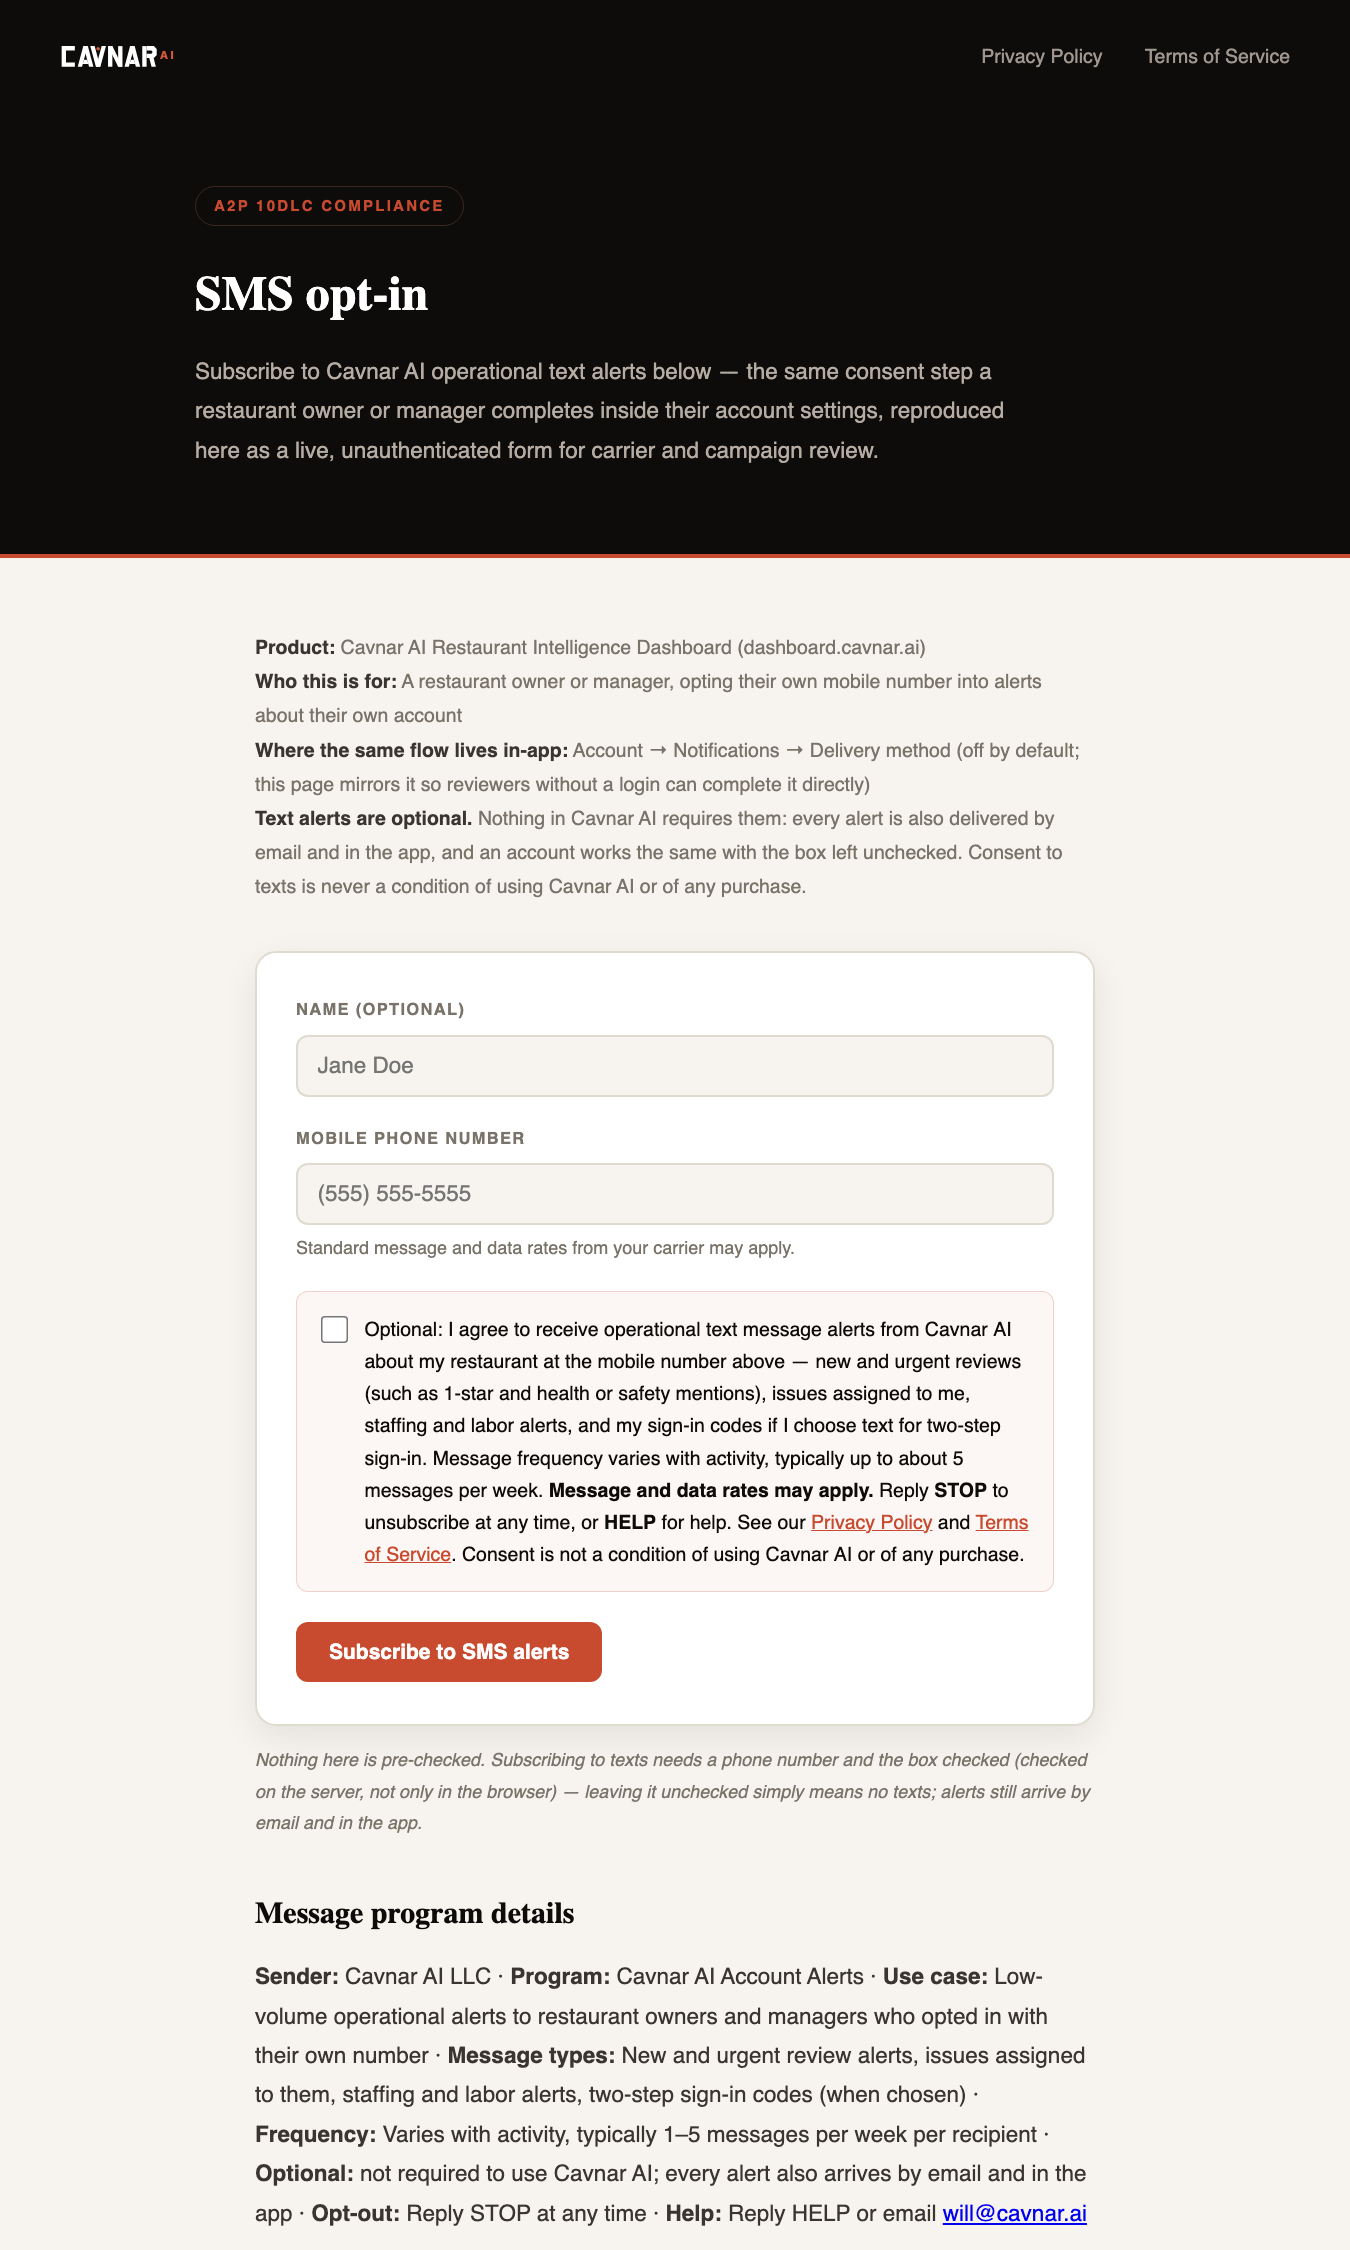
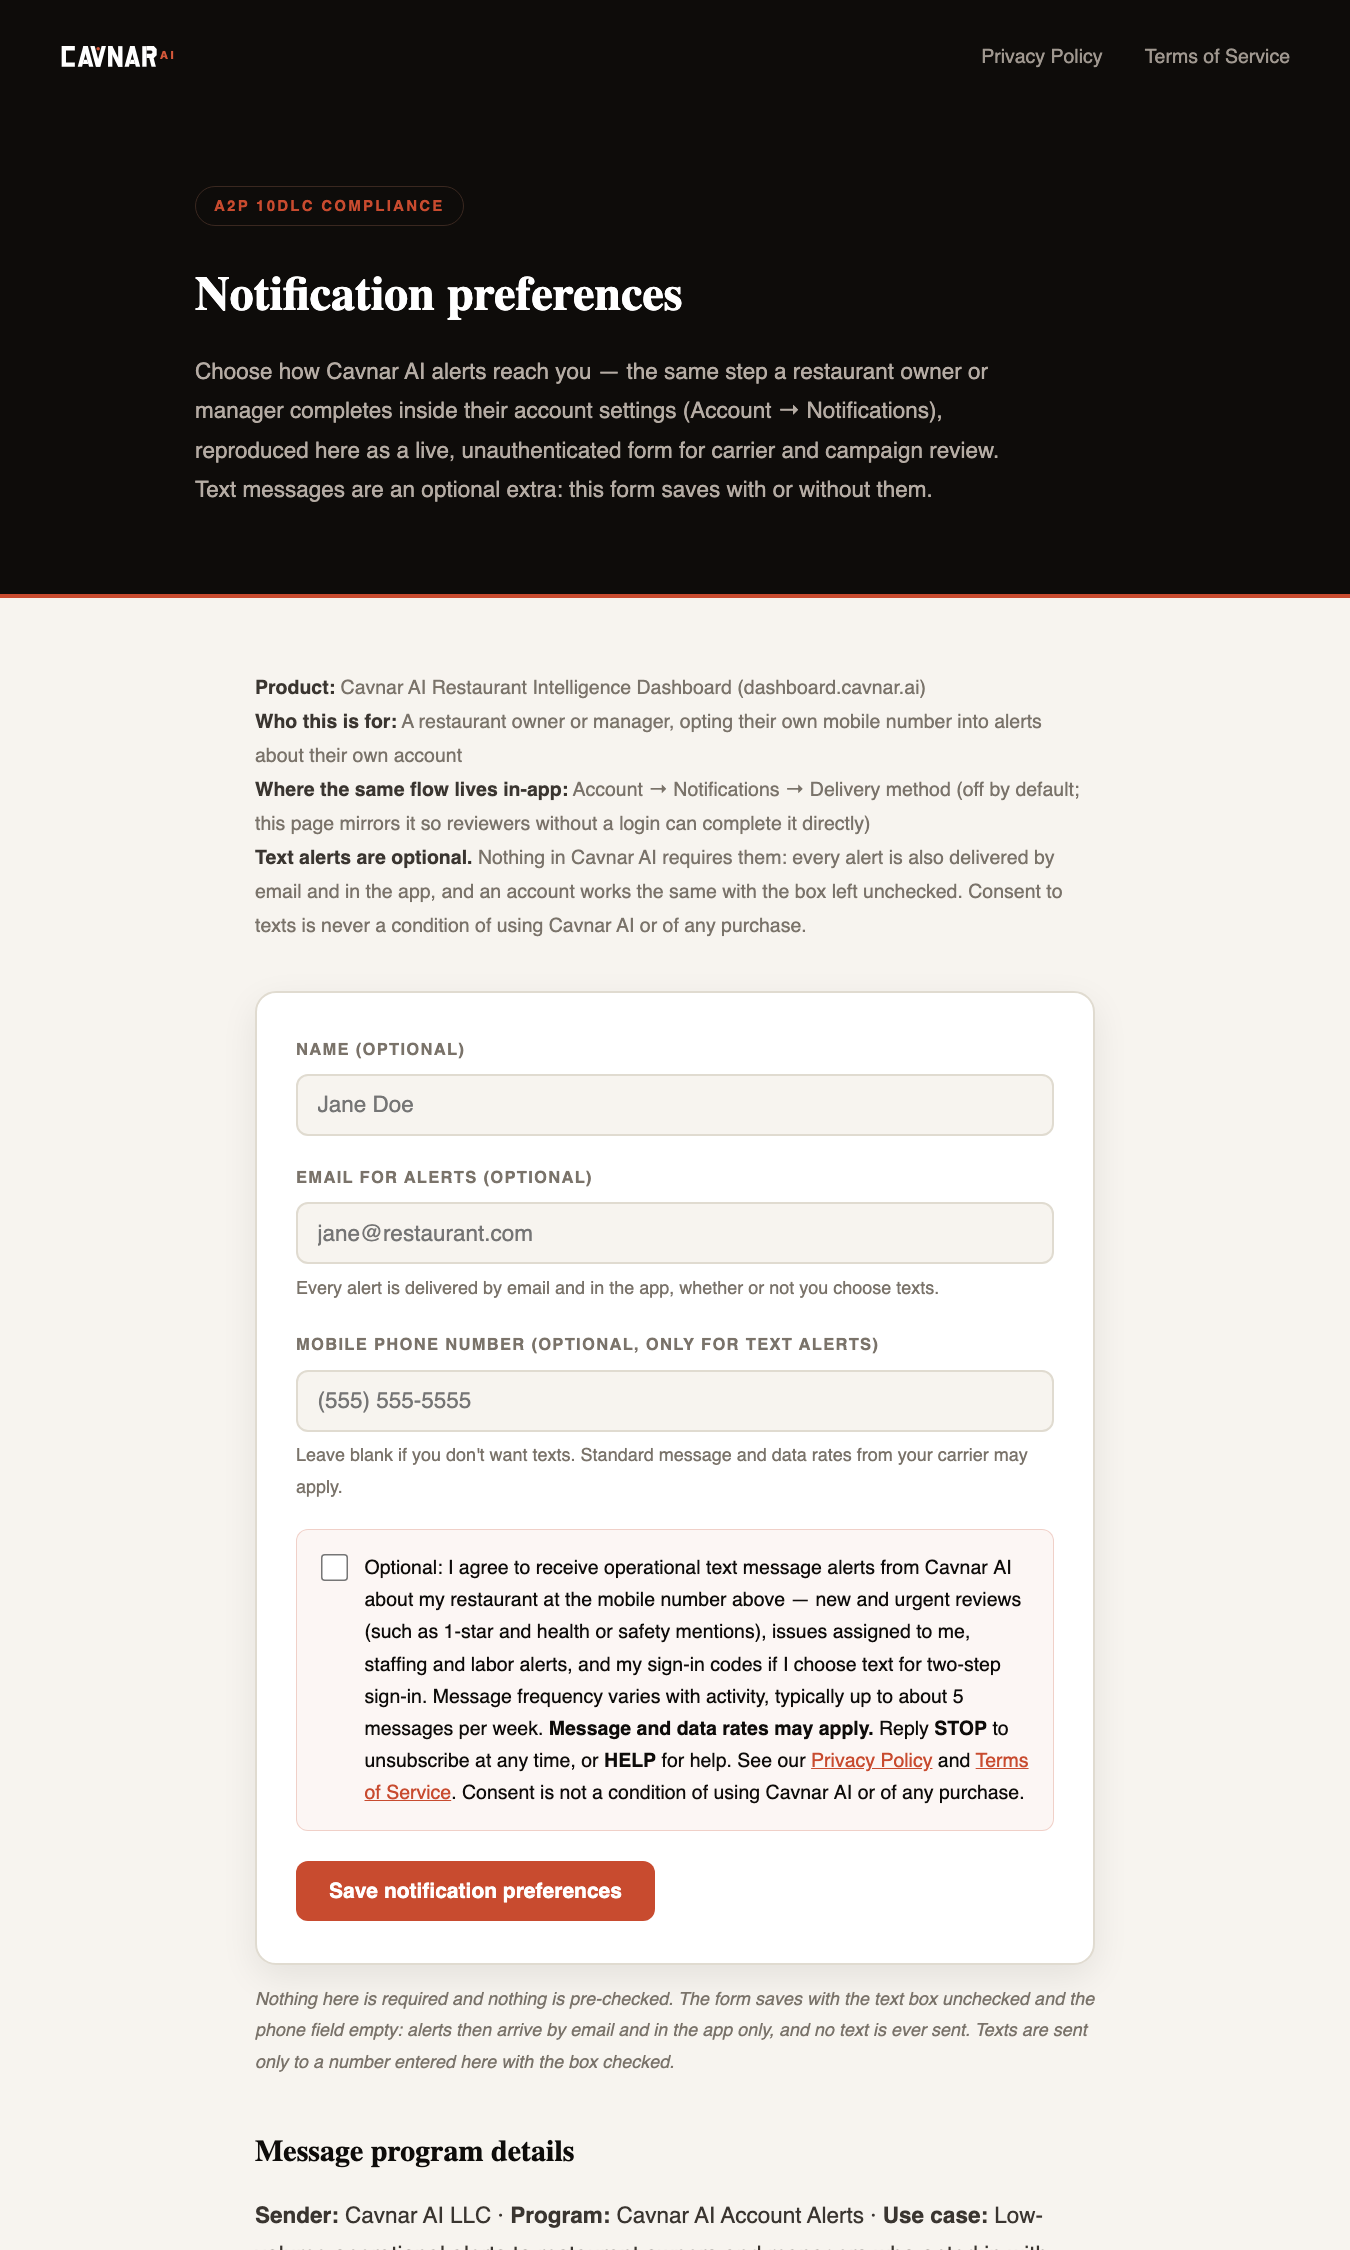
A2P opt-in page: nothing required — saves without the SMS box and without a phone (Twilio 30923, 9/29/26)
The reviewer could not submit the form without checking the consent box,
and the phone field was mandatory: "forced consent". The page is now the
notification-preferences step it mirrors (Account → Notifications): name,
email and phone all optional, the box optional and unchecked, and saving
without texts succeeds with "Preferences saved — no text messages". A
number is asked for only when the box is checked. New screenshot.

Changed region(s): [[0.0, 0.1244, 1.0, 0.9956]]

diff --git a/sms_optin_preview.html b/sms_optin_preview.html
@@ -3,7 +3,7 @@
 <head>
   <meta charset="UTF-8">
   <meta name="viewport" content="width=device-width, initial-scale=1.0">
-  <title>SMS Opt-In — Cavnar AI</title>
+  <title>Notification preferences — Cavnar AI</title>
   <link rel="preconnect" href="https://fonts.googleapis.com">
   <link href="https://fonts.googleapis.com/css2?family=DM+Serif+Display:ital@0;1&family=DM+Sans:wght@300;400;500;600&display=swap" rel="stylesheet">
   <style>
@@ -33,7 +33,7 @@
     .card { border: 1.5px solid var(--paper3); border-radius: 14px; padding: 28px 26px; margin: 24px 0 32px; background: white; box-shadow: 0 8px 24px rgba(14,12,10,.08); }
     .field-label { display: block; font-size: 11px; font-weight: 700; text-transform: uppercase; letter-spacing: .08em; color: var(--ink3); margin-bottom: 7px; }
     .field { margin-bottom: 18px; }
-    .field input[type=text], .field input[type=tel] {
+    .field input[type=text], .field input[type=email], .field input[type=tel] {
       width: 100%; font-family: inherit; font-size: 15px; color: var(--ink); background: var(--paper);
       border: 1.5px solid var(--paper3); border-radius: 8px; padding: 11px 13px; outline: none;
     }
@@ -81,8 +81,8 @@
   <div class="hero">
     <div class="hero-inner">
       <div class="pill">A2P 10DLC Compliance</div>
-      <h1>SMS opt-in</h1>
-      <p>Subscribe to Cavnar AI operational text alerts below — the same consent step a restaurant owner or manager completes inside their account settings, reproduced here as a live, unauthenticated form for carrier and campaign review.</p>
+      <h1>Notification preferences</h1>
+      <p>Choose how Cavnar AI alerts reach you — the same step a restaurant owner or manager completes inside their account settings (Account → Notifications), reproduced here as a live, unauthenticated form for carrier and campaign review. Text messages are an optional extra: this form saves with or without them.</p>
     </div>
   </div>
 
@@ -105,26 +105,31 @@
             <input type="text" id="optin-name" name="name" autocomplete="name" placeholder="Jane Doe">
           </div>
           <div class="field">
-            <label class="field-label" for="optin-phone">Mobile phone number</label>
-            <input type="tel" id="optin-phone" name="phone" required autocomplete="tel" placeholder="(555) 555-5555">
-            <div class="hint">Standard message and data rates from your carrier may apply.</div>
+            <label class="field-label" for="optin-email">Email for alerts (optional)</label>
+            <input type="email" id="optin-email" name="email" autocomplete="email" placeholder="jane@restaurant.com">
+            <div class="hint">Every alert is delivered by email and in the app, whether or not you choose texts.</div>
+          </div>
+          <div class="field">
+            <label class="field-label" for="optin-phone">Mobile phone number (optional, only for text alerts)</label>
+            <input type="tel" id="optin-phone" name="phone" autocomplete="tel" placeholder="(555) 555-5555">
+            <div class="hint">Leave blank if you don't want texts. Standard message and data rates from your carrier may apply.</div>
           </div>
           <div class="consent-row">
             <input type="checkbox" id="optin-consent" name="consent">
             <label for="optin-consent">Optional: I agree to receive operational text message alerts from Cavnar&nbsp;AI about my restaurant at the mobile number above — new and urgent reviews (such as 1-star and health or safety mentions), issues assigned to me, staffing and labor alerts, and my sign-in codes if I choose text for two-step sign-in. Message frequency varies with activity, typically up to about 5 messages per week. <strong>Message and data rates may apply.</strong> Reply <strong>STOP</strong> to unsubscribe at any time, or <strong>HELP</strong> for help. See our <a href="/privacy#sms">Privacy Policy</a> and <a href="/terms#sms">Terms of Service</a>. Consent is not a condition of using Cavnar&nbsp;AI or of any purchase.</label>
           </div>
-          <button type="submit">Subscribe to SMS alerts</button>
+          <button type="submit">Save notification preferences</button>
         </form>
 
         <div class="confirm">
           <div class="check">✓</div>
-          <h3>You're opted in</h3>
-          <p>This confirms your consent was recorded exactly as the checkbox above describes — message type, frequency, rates, and STOP/HELP instructions.</p>
+          <h3>{{CONFIRM_TITLE}}</h3>
+          <p>{{CONFIRM_TEXT}}</p>
           <p>No text message is sent from this preview page: the messaging service this opt-in is being registered for is itself pending carrier approval, so there is nothing live to send a real confirmation through yet. Once approved, the identical consent step inside the authenticated dashboard is what enrolls a real account.</p>
         </div>
       </div>
     </div>
-    <p class="caption">Nothing here is pre-checked. Subscribing to texts needs a phone number and the box checked (checked on the server, not only in the browser) — leaving it unchecked simply means no texts; alerts still arrive by email and in the app.</p>
+    <p class="caption">Nothing here is required and nothing is pre-checked. The form saves with the text box unchecked and the phone field empty: alerts then arrive by email and in the app only, and no text is ever sent. Texts are sent only to a number entered here with the box checked.</p>
 
     <h2>Message program details</h2>
     <p>

diff --git a/tests/test_sms_optin_preview.py b/tests/test_sms_optin_preview.py
@@ -67,7 +67,7 @@ def test_the_consent_checkbox_is_a_real_unchecked_input_by_default():
 
 def test_a_real_phone_input_exists():
     html = _client().get("/sms-optin-preview").data.decode()
-    assert '<input type="tel" id="optin-phone" name="phone" required' in html, \
+    assert '<input type="tel" id="optin-phone" name="phone" autocomplete="tel"' in html, \
         "reviewer note: \"the opt-in link provided lacks phone number field\""
 
 
@@ -93,25 +93,36 @@ def test_the_form_posts_to_itself():
 
 # ── server-side validation, not just browser-side ─────────────────────────
 
-def test_submitting_without_consent_is_refused_server_side():
+def test_nothing_in_the_form_is_required():
+    """Error 30923, fourth review (9/29/26): "we are unable to submit the
+    form without checking the consent box ... and Phone number is also
+    mandatory." No field, and not the consent box, carries `required`."""
+    html = _client().get("/sms-optin-preview").data.decode()
+    form = html.split('<form class="optin-form"', 1)[1].split("</form>", 1)[0]
+    assert " required" not in form
+
+
+def test_the_form_saves_without_consent_and_without_a_phone():
     c = _client()
     tok = _csrf_token(c)
     c.set_cookie("csrf_js", tok)
-    resp = c.post("/sms-optin-preview", data={"csrf_token": tok, "phone": "5551234567"})
-    html = resp.data.decode()
-    assert resp.status_code == 200
-    assert 'id="optin-card" data-state="submitted"' not in html
-    assert "consent" in html.lower()
+    for data in ({}, {"phone": "5551234567"}, {"email": "jane@example.com"}):
+        resp = c.post("/sms-optin-preview", data=dict(data, csrf_token=tok))
+        html = resp.data.decode()
+        assert resp.status_code == 200
+        assert 'id="optin-card" data-state="submitted"' in html, data
+        assert "Preferences saved — no text messages" in html and "no text message will be sent" in html
 
 
-def test_submitting_without_a_valid_phone_is_refused():
+def test_checking_the_box_without_a_number_asks_for_one():
     c = _client()
     tok = _csrf_token(c)
     c.set_cookie("csrf_js", tok)
-    resp = c.post("/sms-optin-preview", data={"csrf_token": tok, "phone": "123", "consent": "on"})
-    html = resp.data.decode()
-    assert 'id="optin-card" data-state="submitted"' not in html
-    assert "valid mobile phone" in html.lower()
+    for phone in ("", "123"):
+        resp = c.post("/sms-optin-preview", data={"csrf_token": tok, "phone": phone, "consent": "on"})
+        html = resp.data.decode()
+        assert 'id="optin-card" data-state="submitted"' not in html
+        assert "uncheck the box to save without texts" in html
 
 
 def test_a_valid_submission_shows_the_confirmation_state():
@@ -123,7 +134,7 @@ def test_a_valid_submission_shows_the_confirmation_state():
     })
     html = resp.data.decode()
     assert 'id="optin-card" data-state="submitted"' in html
-    assert "You're opted in" in html
+    assert "You're opted in to text alerts" in html
 
 
 def test_confirmation_is_explicit_that_no_real_text_is_sent():

diff --git a/admin_routes.py b/admin_routes.py
@@ -2654,6 +2654,7 @@ def sms_optin_preview_page():
     from csrf import CSRF_COOKIE as _CSRF_COOKIE
 
     submitted = False
+    texts = False
     error = None
     if request.method == "POST":
         cookie_tok = request.cookies.get(_CSRF_COOKIE, "")
@@ -2661,15 +2662,23 @@ def sms_optin_preview_page():
         if not (cookie_tok and sent_tok and cookie_tok == sent_tok):
             error = "Your session expired — please try again."
         else:
+            # Error 30923 (9/29/26, the fourth review): "we are unable to
+            # submit the form without checking the consent box ... and Phone
+            # number is also mandatory." Consent to texts must never be a
+            # condition of completing the form, so nothing here is required:
+            # the form saves without the box and without a number (alerts by
+            # email and in the app only). A number is asked for only when the
+            # box IS checked, because a text needs somewhere to go.
             phone = (request.form.get("phone") or "").strip()
             consent = request.form.get("consent") == "on"
             digits = _re.sub(r"\D", "", phone)
-            if not consent:
-                error = "Check the consent box to subscribe."
-            elif len(digits) < 10:
-                error = "Enter a valid mobile phone number."
+            if consent and len(digits) < 10:
+                error = "To get text alerts, enter your mobile number — or uncheck the box to save without texts."
+            elif phone and len(digits) < 10:
+                error = "That mobile number looks incomplete — fix it or clear the field."
             else:
                 submitted = True
+                texts = consent
 
     try:
         html_path = _os.path.join(_os.path.dirname(__file__), "sms_optin_preview.html")
@@ -2683,6 +2692,15 @@ def sms_optin_preview_page():
     html = html.replace("{{FORM_STATE}}", "submitted" if submitted else ("error" if error else "form"))
     html = html.replace("{{ERROR_TEXT}}", error or "")
     html = html.replace("{{ERROR_DISPLAY}}", "block" if error else "none")
+    if submitted and texts:
+        title, body = ("You're opted in to text alerts",
+                       "Saved. Your consent was recorded exactly as the checkbox describes — message types, frequency, "
+                       "rates, and STOP/HELP instructions. Alerts also arrive by email and in the app.")
+    else:
+        title, body = ("Preferences saved — no text messages",
+                       "Saved without text alerts. Alerts will arrive by email and in the app only, and no text "
+                       "message will be sent. You can add text alerts at any time by checking the box.")
+    html = html.replace("{{CONFIRM_TITLE}}", title if submitted else "").replace("{{CONFIRM_TEXT}}", body if submitted else "")
 
     resp = Response(html, mimetype="text/html")
     if not request.cookies.get(_CSRF_COOKIE):
